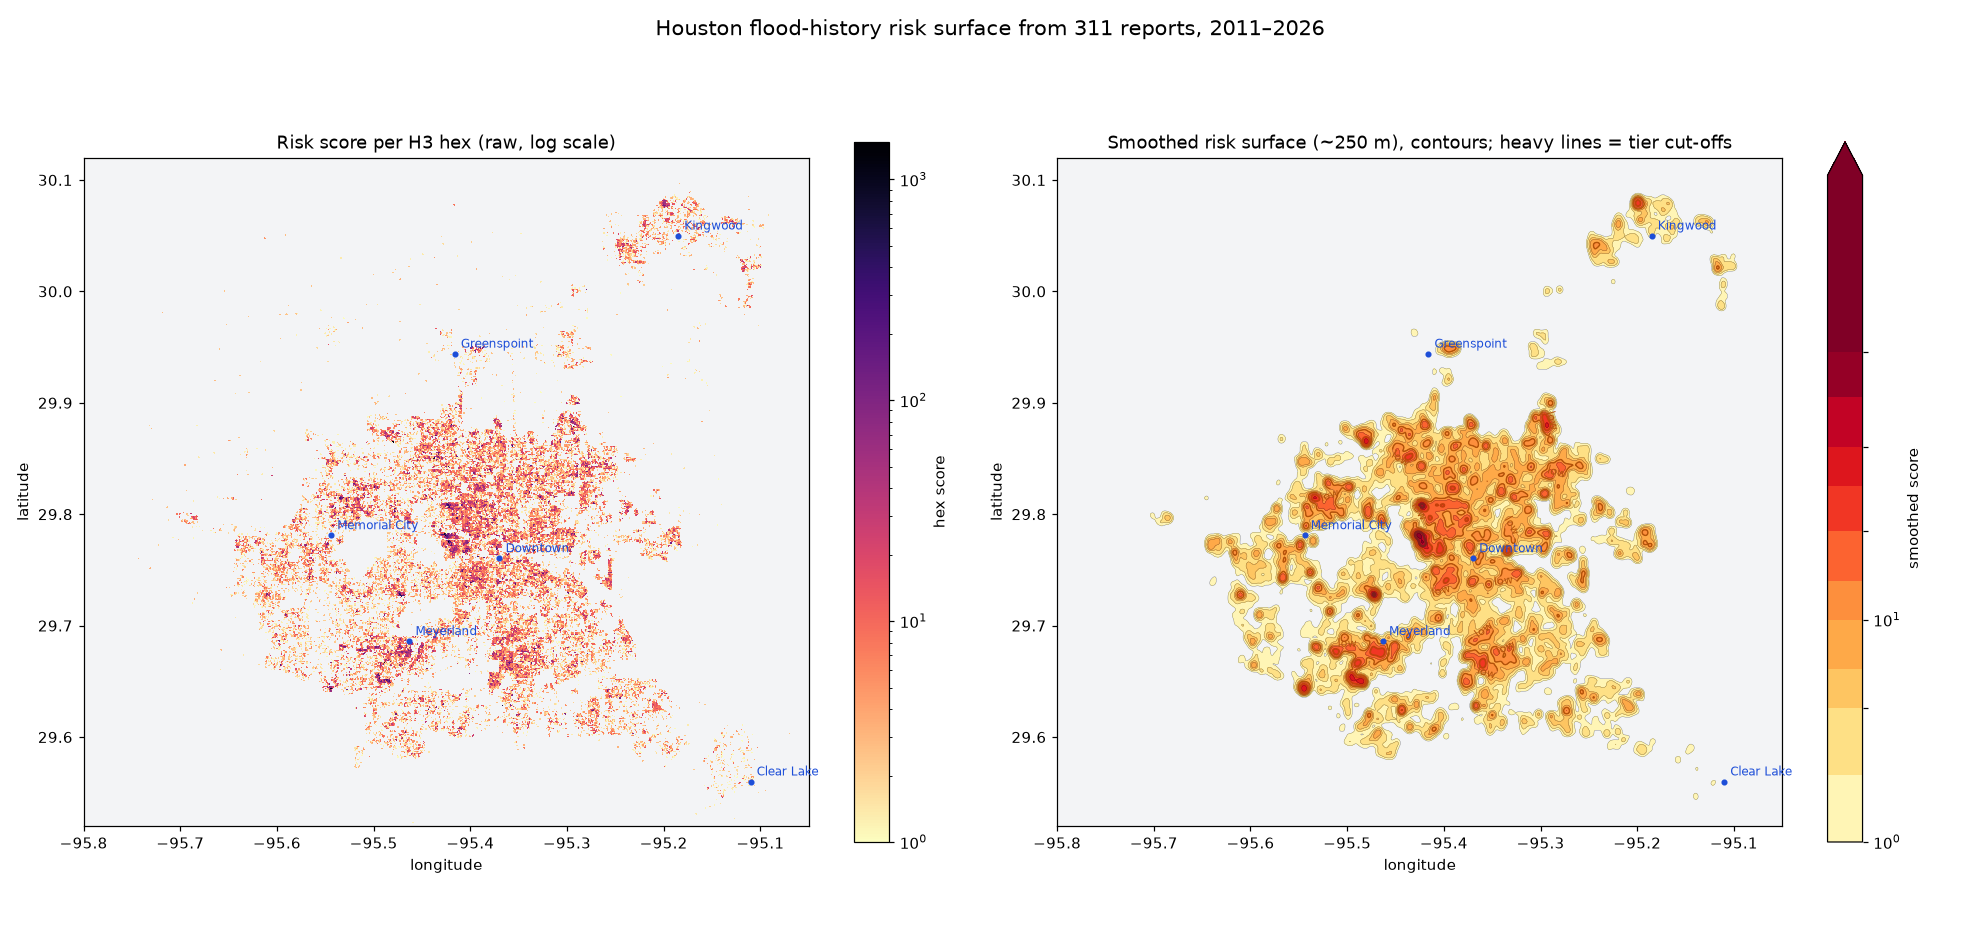
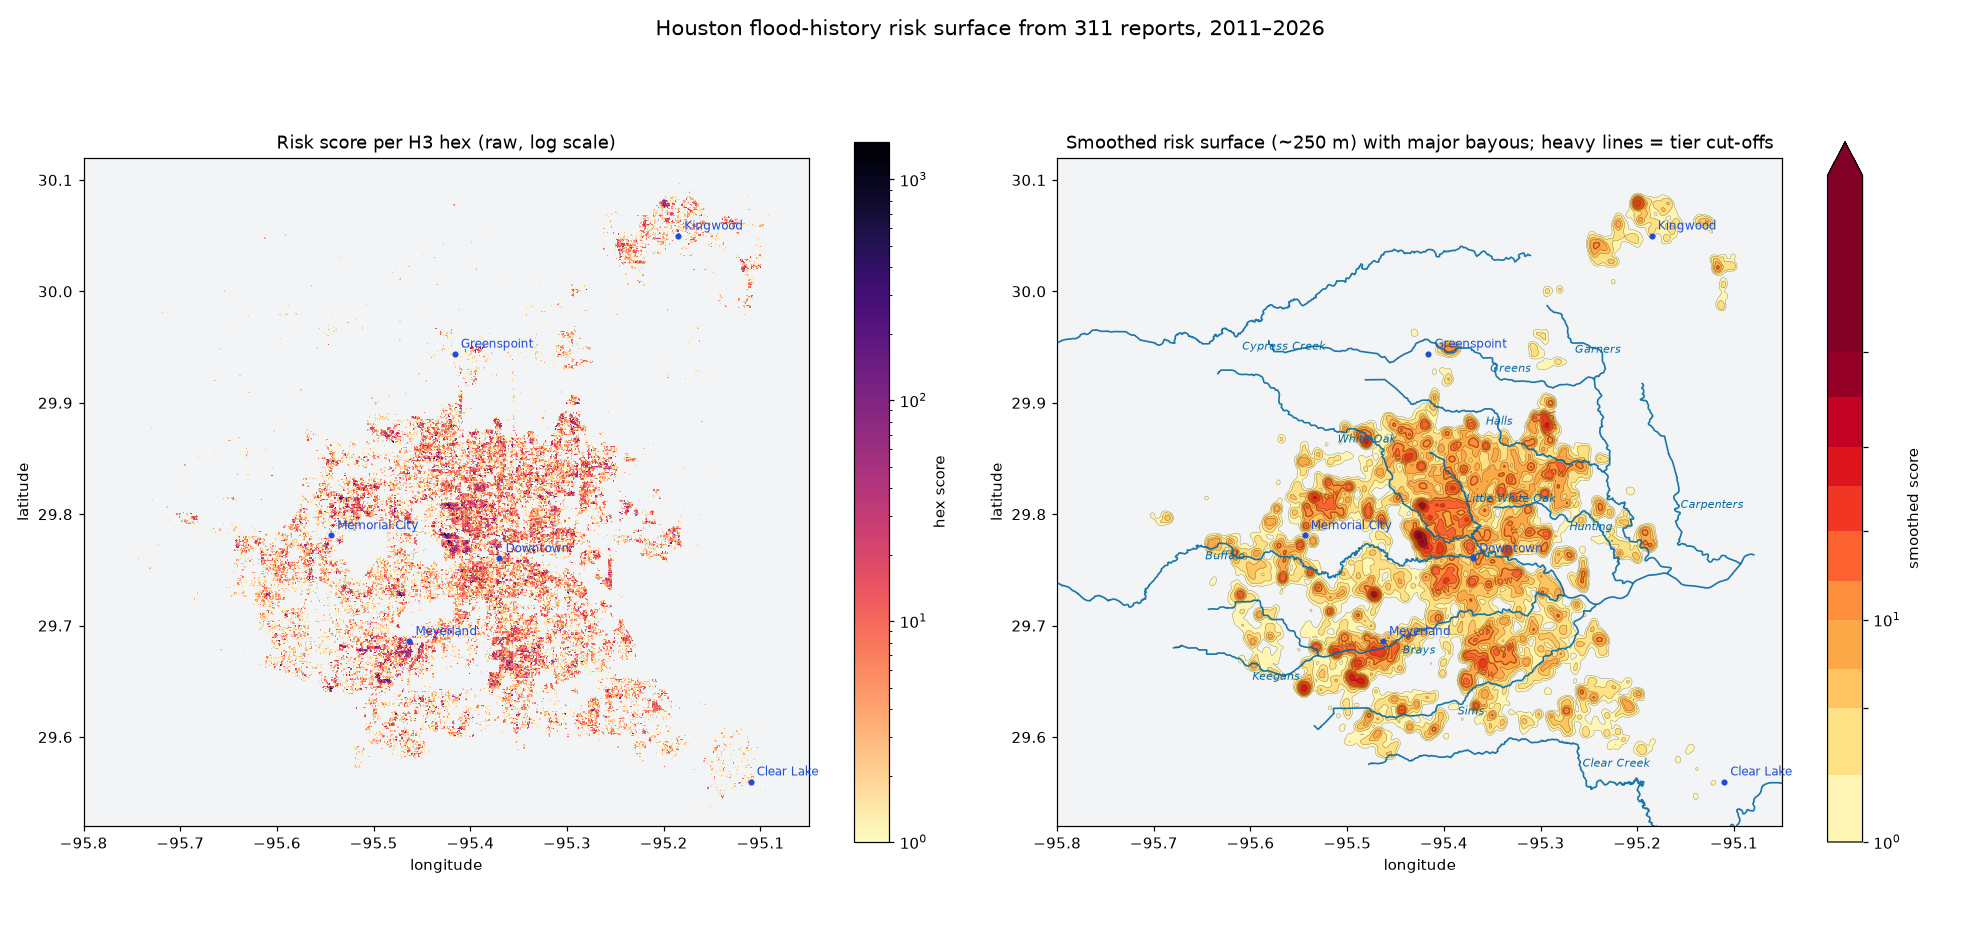
Risk-surface map: draw major bayous from OSM on the smoothed panel

diff --git a/risk/risk_map.py b/risk/risk_map.py
@@ -8,6 +8,8 @@ Right: the same scores smoothed with a Gaussian (~250 m) and drawn as a
 
 Writes docs/risk_surface.png. Scores only; no case data.
 """
+import json
+import subprocess
 import sys
 from pathlib import Path
 
@@ -20,6 +22,11 @@ sys.path.insert(0, str(ROOT / "ingest"))
 from db import connect  # noqa: E402
 
 OUT = ROOT / "docs" / "risk_surface.png"
+PBF = ROOT / "data" / "osm" / "houston.osm.pbf"
+BAYOUS = ROOT / "data" / "osm" / "bayous.geojson"
+MAJOR_BAYOUS = ["Buffalo Bayou", "White Oak Bayou", "Little White Oak Bayou", "Brays Bayou", "Sims Bayou",
+                "Greens Bayou", "Halls Bayou", "Hunting Bayou", "Keegans Bayou", "Garners Bayou",
+                "Carpenters Bayou", "Cypress Creek", "Clear Creek"]
 LON0, LON1, LAT0, LAT1 = -95.80, -95.05, 29.52, 30.12
 STEP = 0.0008            # ~80 m grid
 SIGMA_M = 250            # smoothing for the contour view
@@ -35,6 +42,44 @@ def gaussian_blur(a, sigma_px):
     kx = np.fft.fftfreq(nx)[None, :]
     g = np.exp(-2 * (np.pi * sigma_px) ** 2 * (kx ** 2 + ky ** 2))
     return np.real(np.fft.ifft2(np.fft.fft2(a) * g))
+
+
+def load_bayous():
+    """Named major bayous from the OSM extract (cached as data/osm/bayous.geojson)."""
+    if not BAYOUS.exists() or BAYOUS.stat().st_mtime < PBF.stat().st_mtime:
+        tmp = BAYOUS.with_suffix(".osm.pbf")
+        subprocess.run(["osmium", "tags-filter", "-O", "-o", str(tmp), str(PBF),
+                        "w/waterway=river,stream,canal,drain"], check=True)
+        seq = subprocess.run(["osmium", "export", "-f", "geojsonseq", str(tmp)], check=True,
+                             capture_output=True, text=True).stdout
+        tmp.unlink()
+        feats = []
+        for ln in seq.splitlines():
+            ln = ln.strip("\x1e").strip()
+            if not ln:
+                continue
+            f = json.loads(ln)
+            if f["properties"].get("name") in MAJOR_BAYOUS and f["geometry"]["type"] == "LineString":
+                feats.append({"type": "Feature", "properties": {"name": f["properties"]["name"]},
+                              "geometry": f["geometry"]})
+        BAYOUS.write_text(json.dumps({"type": "FeatureCollection", "features": feats}))
+    by = {}
+    for f in json.loads(BAYOUS.read_text())["features"]:
+        by.setdefault(f["properties"]["name"], []).append(f["geometry"]["coordinates"])
+    return by
+
+
+def draw_bayous(ax, bayous, labels=True):
+    for name, parts in bayous.items():
+        pts = []
+        for coords in parts:
+            xs, ys = zip(*coords)
+            ax.plot(xs, ys, color="#0369a1", lw=1.1, alpha=0.9, solid_capstyle="round")
+            pts += [c for c in coords if LON0 < c[0] < LON1 and LAT0 < c[1] < LAT1]
+        if labels and pts:
+            lo, la = sorted(pts)[len(pts) // 3]  # a point a third of the way along, west to east
+            ax.annotate(name.replace(" Bayou", ""), (lo, la), fontsize=7, color="#0369a1", style="italic",
+                        xytext=(3, -9), textcoords="offset points")
 
 
 def main():
@@ -77,7 +122,8 @@ def main():
     cs = ax2.contour(lons, lats, smooth, levels=[th["low"], th["medium"], th["high"]],
                      colors=["#b45309", "#c2410c", "#7f1d1d"], linewidths=[0.9, 1.2, 1.6])
     ax2.clabel(cs, fmt={th["low"]: "low", th["medium"]: "med", th["high"]: "high"}, fontsize=7)
-    ax2.set_title(f"Smoothed risk surface (~{SIGMA_M} m), contours; heavy lines = tier cut-offs")
+    draw_bayous(ax2, load_bayous())
+    ax2.set_title(f"Smoothed risk surface (~{SIGMA_M} m) with major bayous; heavy lines = tier cut-offs")
     fig.colorbar(cf, ax=ax2, shrink=0.8, label="smoothed score")
 
     for ax in (ax1, ax2):
